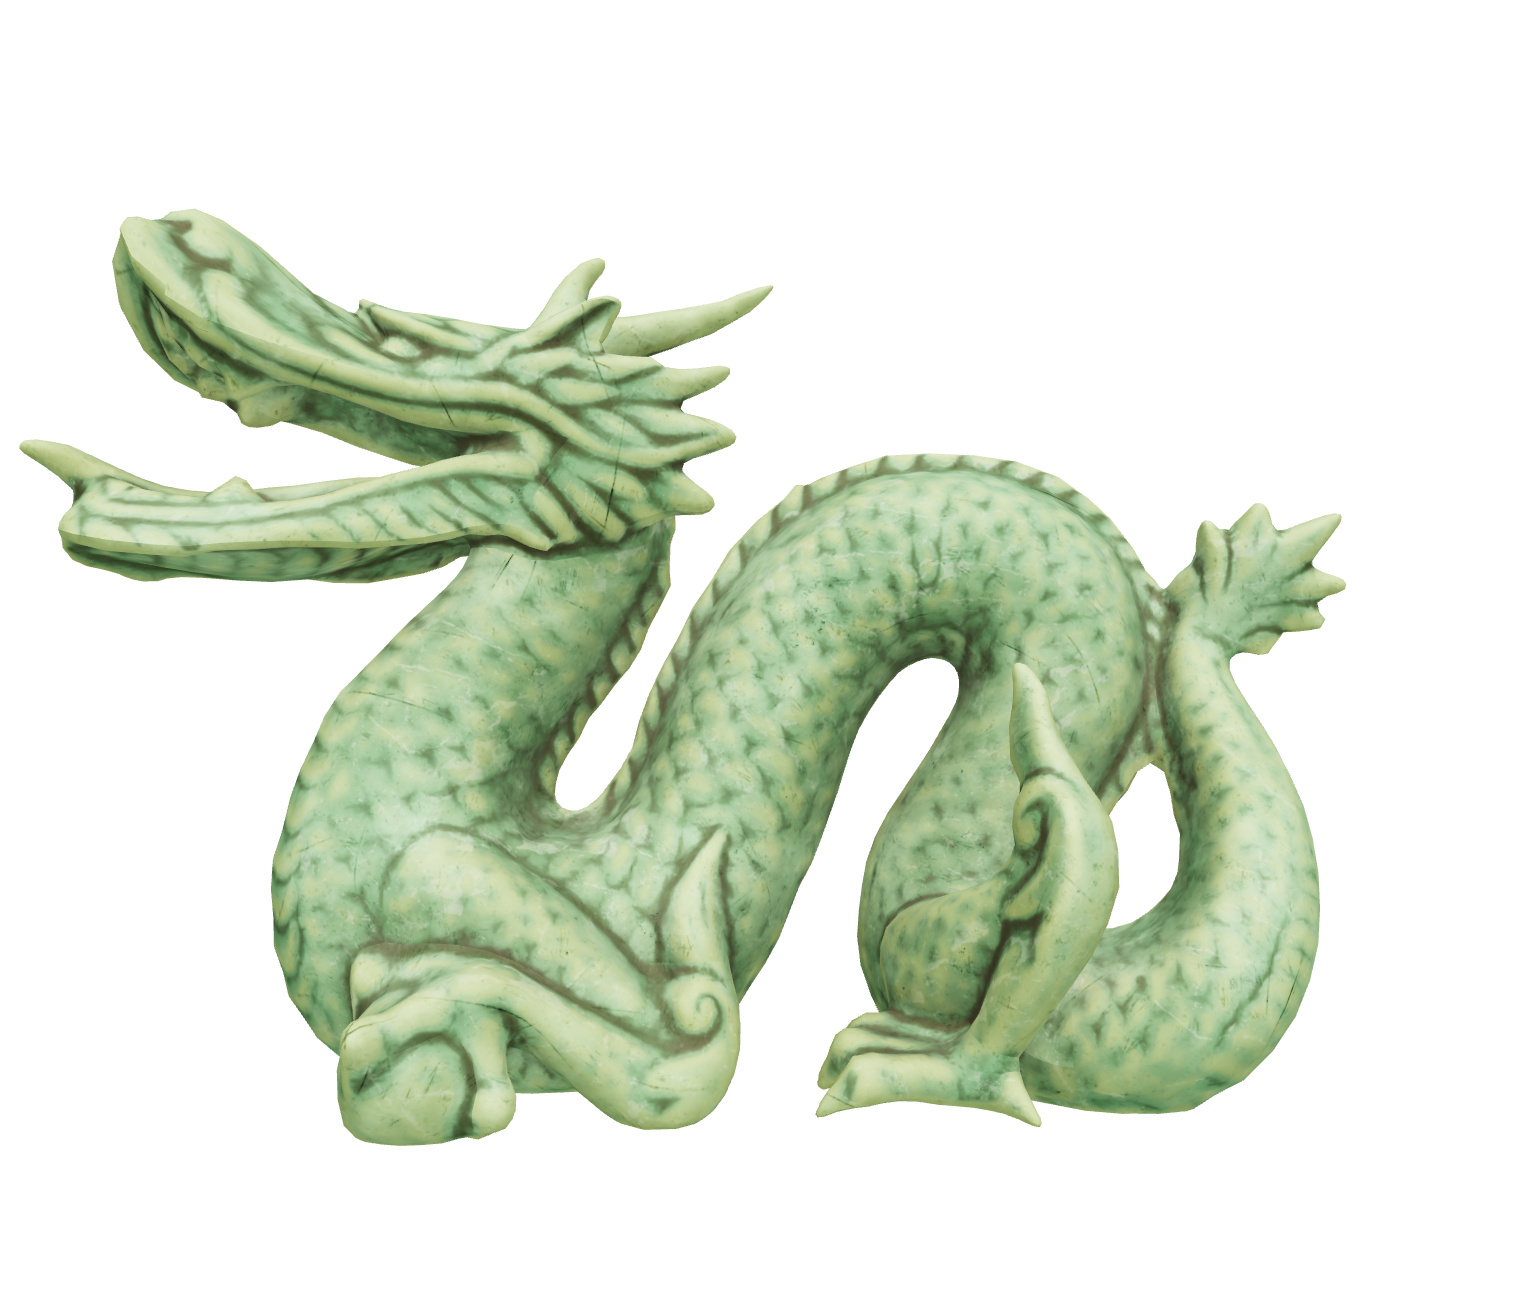
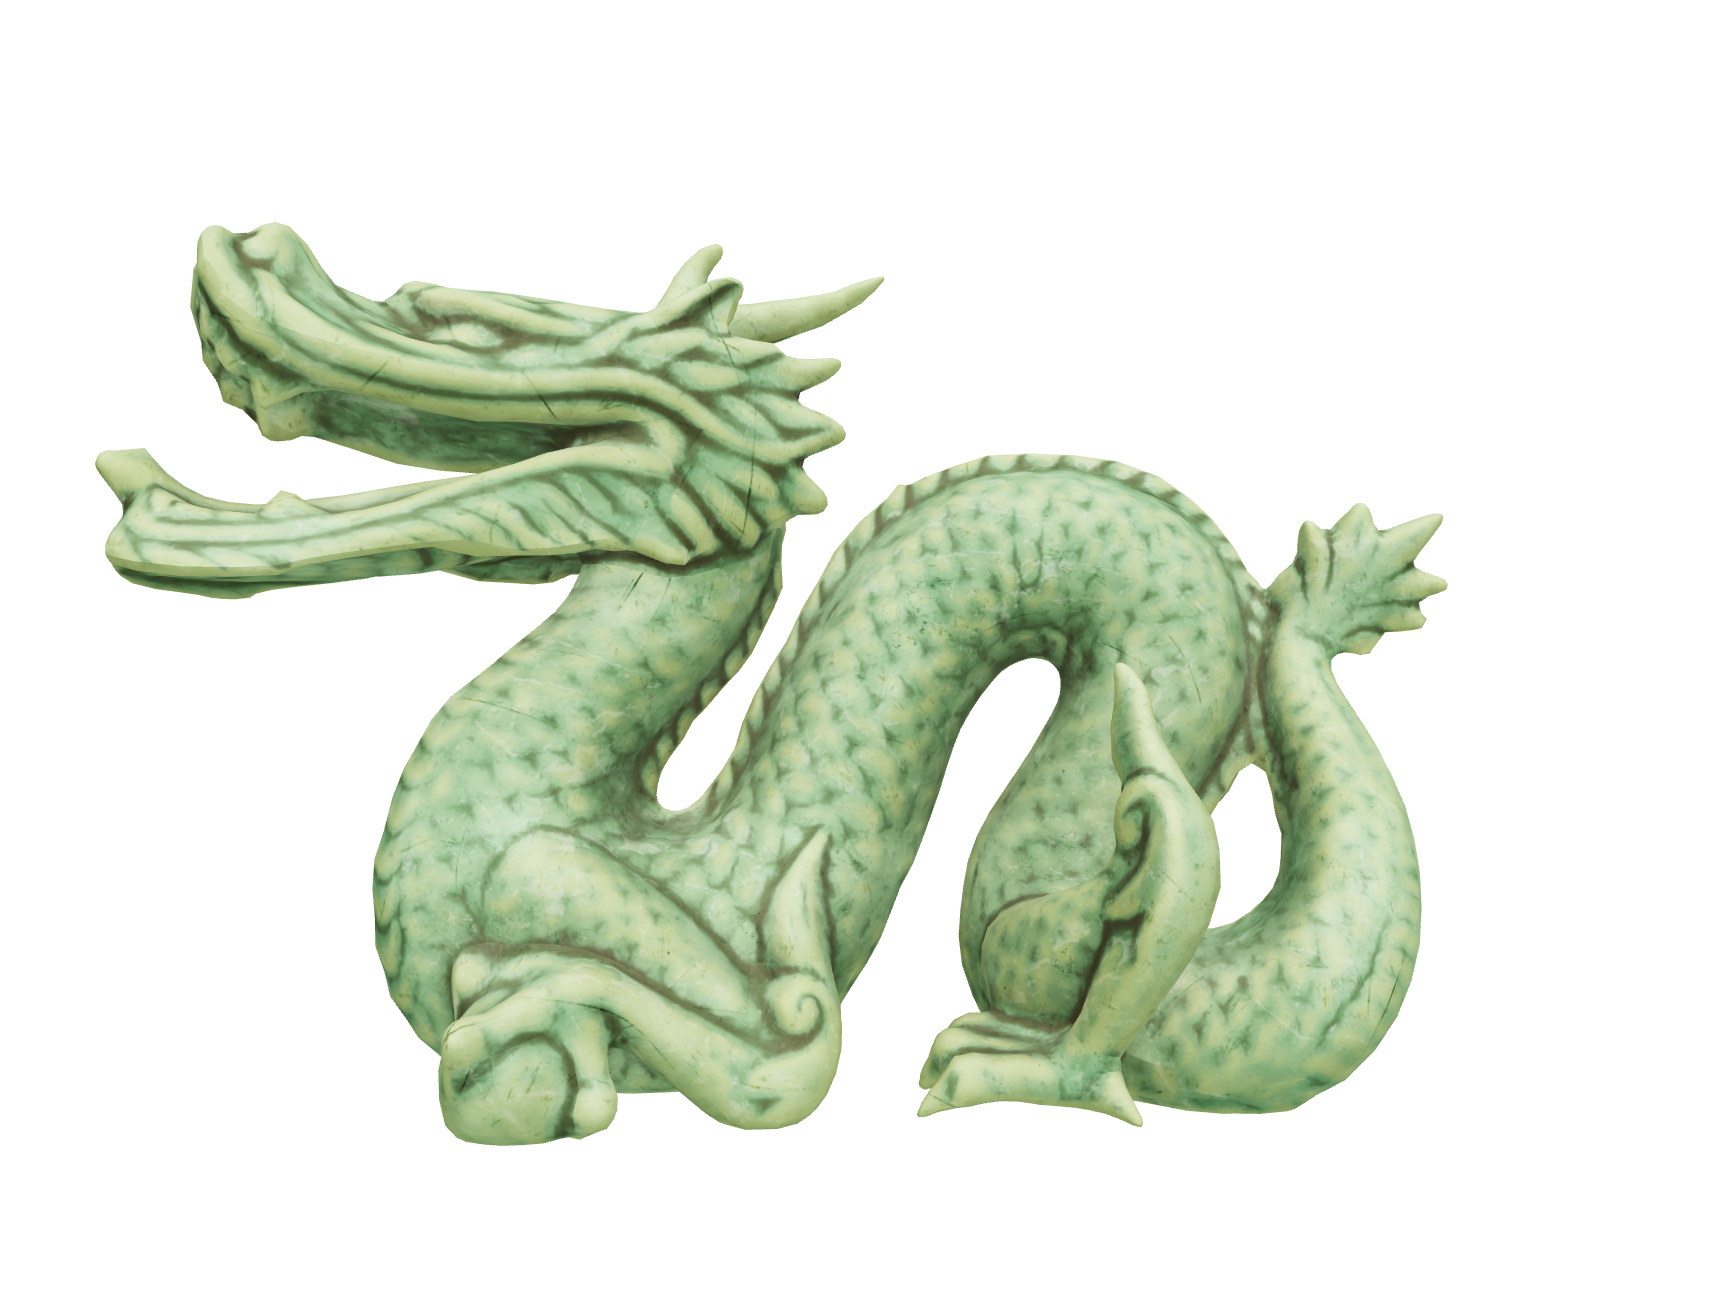
add ablation mesh lifting section

Changed region(s): [[0.0, 0.1534, 0.8991, 0.8896]]

diff --git a/index.html b/index.html
@@ -384,6 +384,34 @@
     </div>
   </section>
 
+  <!-- Ablation: Mesh Lifting Section -->
+  <section class="section">
+    <div class="container">
+      <h2 class="title is-3" style="text-align:center;">♣ Ablation: Mesh Lifting ♣</h2>
+      <p style="text-align:center; margin-bottom: 1.5rem;">
+        Comparison of mesh lifting strategies on the same input.
+      </p>
+      <div style="display:flex; flex-direction:column; gap:12px;">
+        <div class="ablation-header-row" style="grid-template-columns: repeat(3, 1fr);">
+          <div class="ablation-header-cell">Input Mesh</div>
+          <div class="ablation-header-cell">Cylindrical (Ours)</div>
+          <div class="ablation-header-cell">Displacement</div>
+        </div>
+        <div class="ablation-row" style="grid-template-columns: repeat(3, 1fr);">
+          <div class="editing-cell">
+            <img src="static/images/ablation_cylindrical/bird.png" alt="Input Mesh">
+          </div>
+          <div class="editing-cell">
+            <img src="static/images/ablation_cylindrical/bird_cylindrical.png" alt="Cylindrical (Ours)">
+          </div>
+          <div class="editing-cell">
+            <img src="static/images/ablation_cylindrical/bird_displacement.png" alt="Displacement">
+          </div>
+        </div>
+      </div>
+    </div>
+  </section>
+
 
 
 <style>
@@ -1401,7 +1429,7 @@
   // Editing Comparison: per-object row showing input mesh + (representation, deformation)
   // for Ours / WIR3D / ARAP. Files probed under static/images/comparison_editing/{obj}/.
   // Missing files render as a striped empty cell (same UX as More Demo).
-  const comparisonEditingObjects = ["dragon"];
+  const comparisonEditingObjects = ["chair", "dragon", "nefertiti", "spot"];
   const editingMethods = [
       { key: "fishbone", label: "Ours" },
       { key: "wir3d",    label: "WIR3D" },
@@ -1567,7 +1595,7 @@
   const ablationSpineColumns = [
       { src: "{obj}.png",        label: "Input Mesh" },
       { src: "{obj}_rib.png",    label: "Rib" },
-      { src: "{obj}_spine.png",  label: "Ours" },
+      { src: "{obj}_spine.png",  label: "Score Maximization Spine (Ours)" },
       { src: "{obj}_center.png", label: "Center Spine" }
   ];
 
